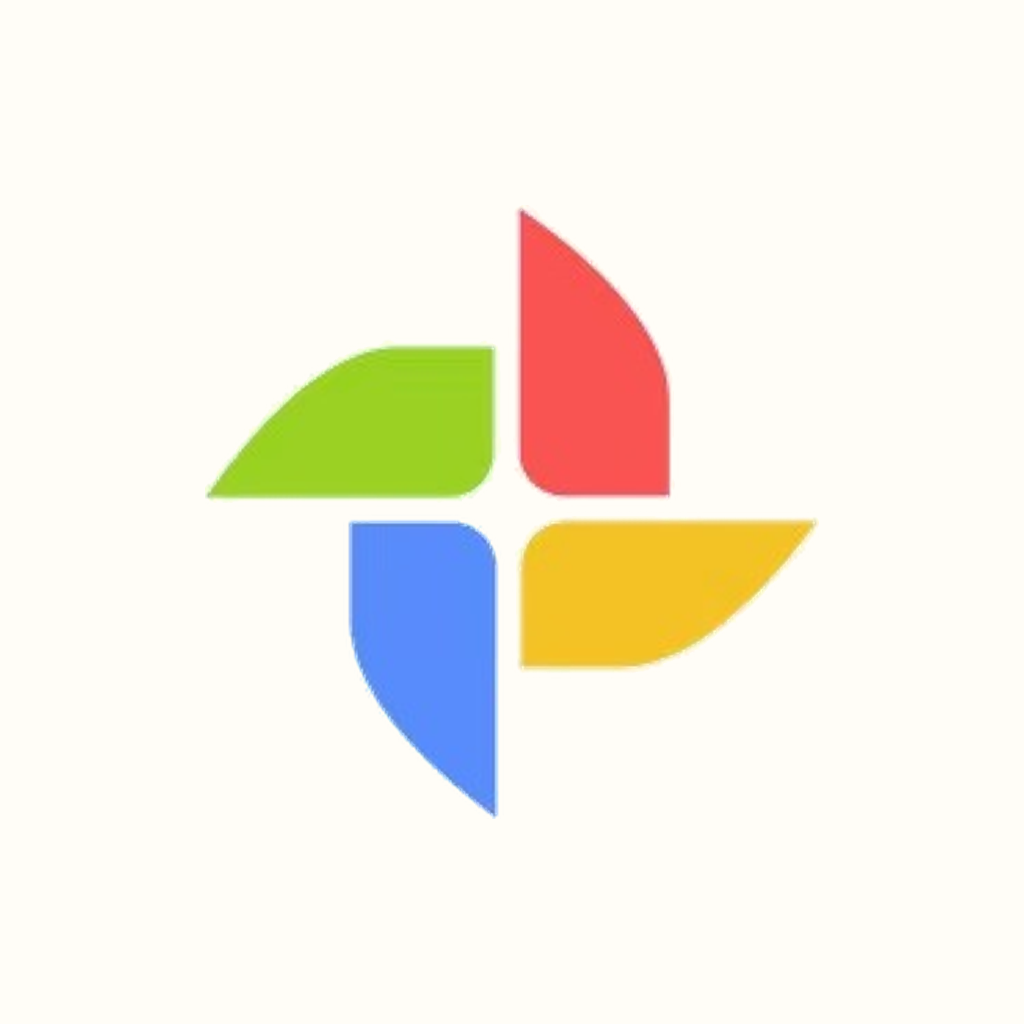
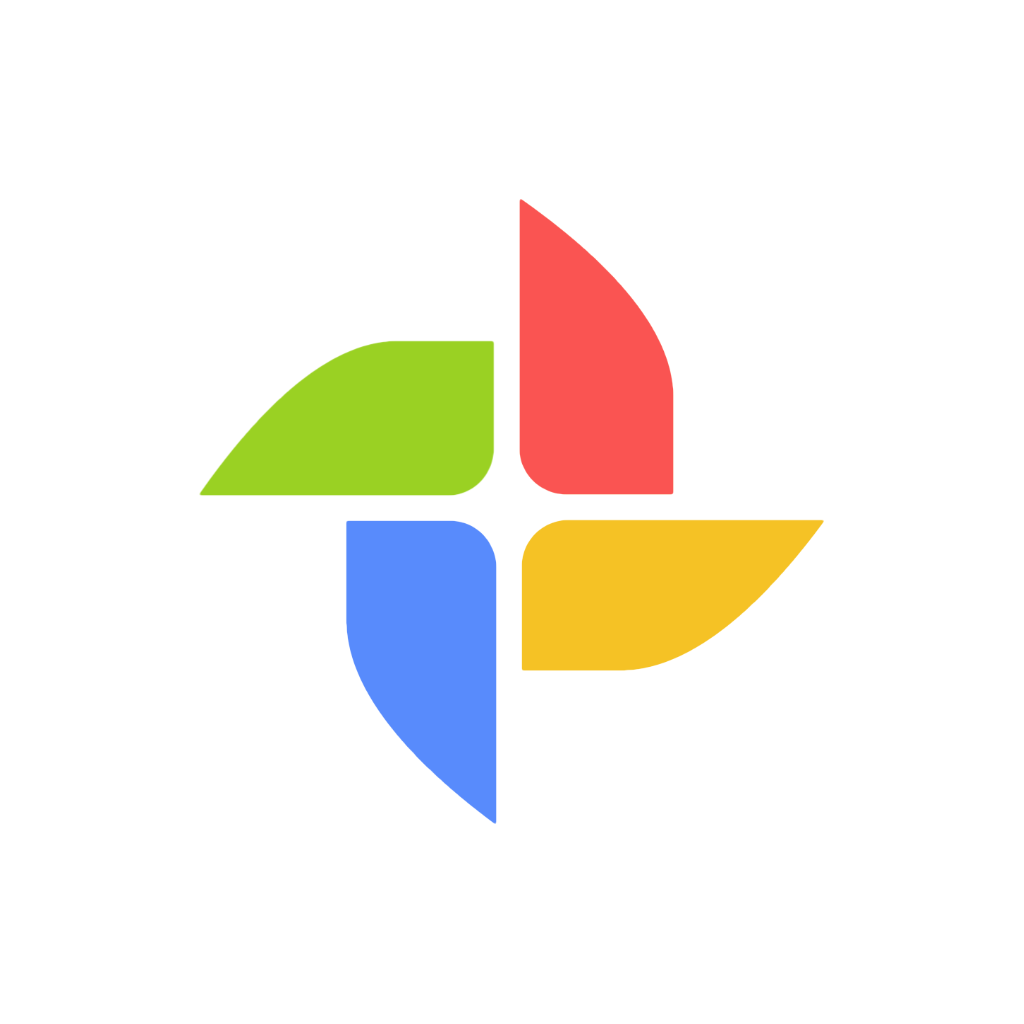
更换应用图标与启动图，去掉单词列表生词本筛选
- icon / adaptive-icon 换成四色风车；启动图改用透明底 splash.png，不再出现白底方块
- 单词列表页筛选 Tab 去掉「生词本」，生词本统一从底部 Tab 进入

diff --git a/src/screens/WordListScreen.tsx b/src/screens/WordListScreen.tsx
@@ -19,7 +19,7 @@ interface WordListScreenProps {
   navigation: any;
 }
 
-type FilterType = 'all' | 'unlearned' | 'mastered' | 'bookmarked';
+type FilterType = 'all' | 'unlearned' | 'mastered';
 
 export const WordListScreen: React.FC<WordListScreenProps> = ({ route, navigation }) => {
   const { category, subCategory, source, title: routeTitle } = route.params || {};
@@ -53,12 +53,10 @@ export const WordListScreen: React.FC<WordListScreenProps> = ({ route, navigatio
     return baseWords.filter((w) => {
       const p = state.progressMap[w.id];
       const isMastered = p?.status === 'mastered';
-      const isBookmarked = p?.isBookmarked || false;
 
       // 状态筛选
       if (activeFilter === 'mastered' && !isMastered) return false;
       if (activeFilter === 'unlearned' && isMastered) return false;
-      if (activeFilter === 'bookmarked' && !isBookmarked) return false;
 
       return true;
     });
@@ -119,7 +117,6 @@ export const WordListScreen: React.FC<WordListScreenProps> = ({ route, navigatio
             { id: 'all', label: '全部' },
             { id: 'unlearned', label: '待掌握' },
             { id: 'mastered', label: '已掌握' },
-            { id: 'bookmarked', label: '生词本' },
           ] as { id: FilterType; label: string }[]
         ).map((tab) => {
           const isActive = activeFilter === tab.id;

diff --git a/src/screens/FlashcardScreen.tsx b/src/screens/FlashcardScreen.tsx
@@ -164,9 +164,6 @@ export const FlashcardScreen: React.FC<FlashcardScreenProps> = ({ route, navigat
       if (filter === 'unlearned') {
         return p?.status !== 'mastered';
       }
-      if (filter === 'bookmarked') {
-        return p?.isBookmarked;
-      }
 
       return true;
     });
